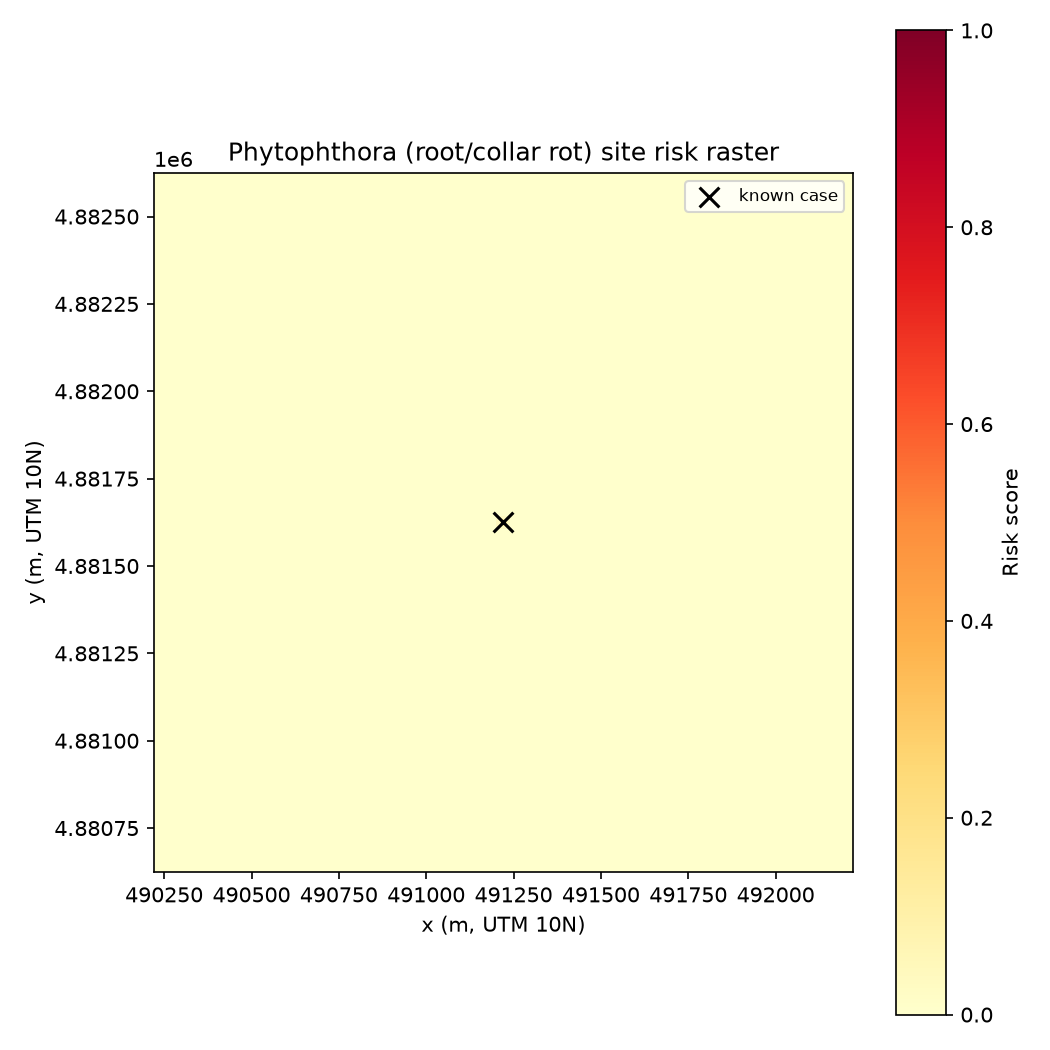
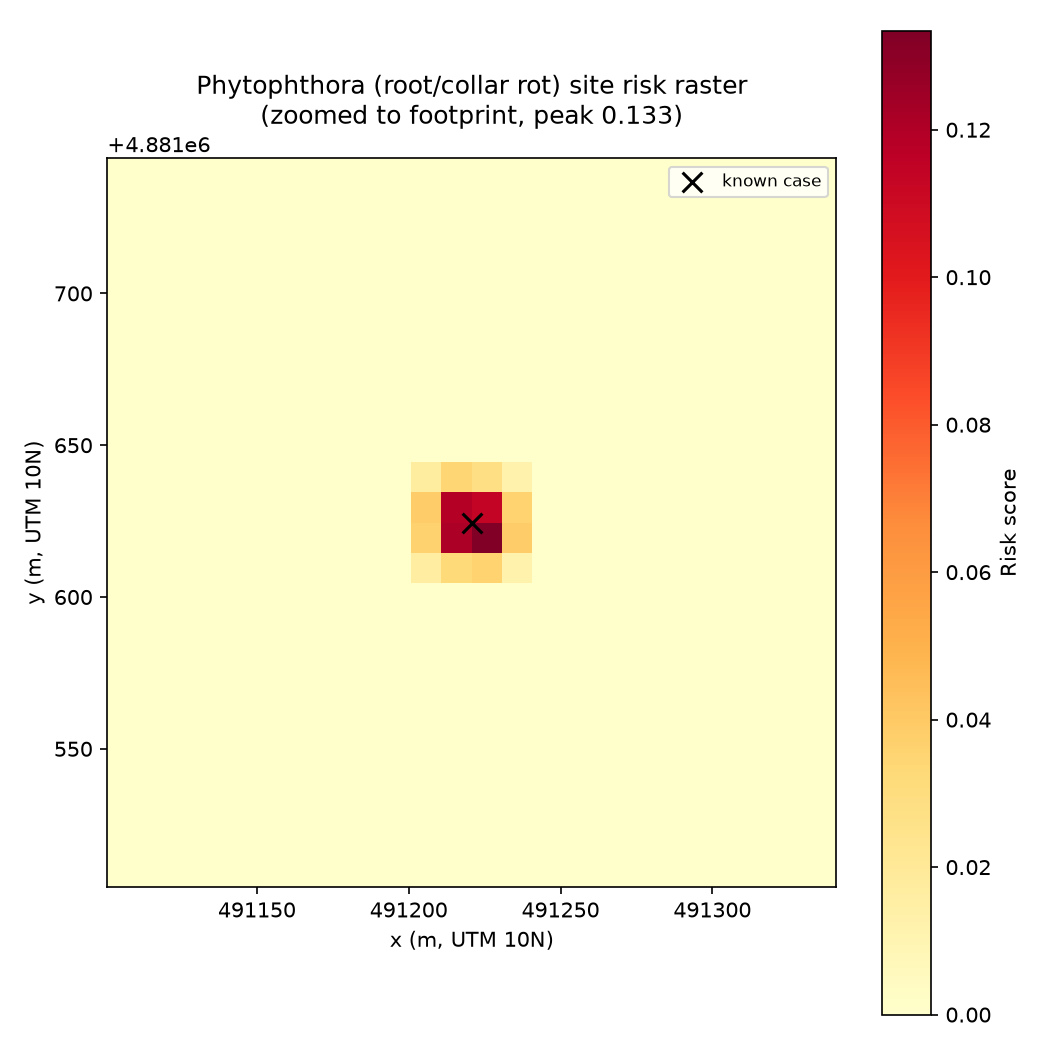
Fix risk raster preview to auto-scale and zoom to footprint
The preview PNG plotted the full 2km AOI with a fixed 0-1 color scale
shared across pathogens, so phytophthora's tight, low-magnitude 25m
dispersal footprint (peak 0.13) rendered as flat/empty even though the
10m-resolution raster has real structure. Crop to the risk footprint
(nonzero cells + source points, padded) and auto-scale color range to
that window instead.

Changed region(s): [[0.0305, 0.0305, 0.8533, 0.9752], [0.8838, 0.0305, 0.9752, 0.9752], [0.3657, 0.4267, 0.5181, 0.579]]

diff --git a/PathogenPy/run_real_site_risk_raster.py b/PathogenPy/run_real_site_risk_raster.py
@@ -59,16 +59,42 @@ def run_one(pathogen_key, site_name, output_basename):
     print(f"[{pathogen_key}] Risk range: {risk.min():.3f} - {risk.max():.3f}, mean {risk.mean():.3f}")
     print(f"[{pathogen_key}] Known/source cases: {len(sources)}")
 
+    # Zoom to the risk footprint and auto-scale the color range to its own
+    # data, rather than a shared 0-1 scale across the full 2km AOI. A fixed
+    # 0-1 scale makes tight, low-magnitude footprints (e.g. phytophthora's
+    # 25m dispersal radius topping out around 0.13) look flat/empty even
+    # though the raster has real structure -- see docs/notes/
+    # real_site_risk_raster.md's resolution-bump verification.
+    resolution_m = environment["resolution_m"]
+    nonzero_rows, nonzero_cols = np.nonzero(risk)
+    source_cols = np.clip(
+        ((sources["x"].to_numpy() - environment["origin_x"]) / resolution_m).astype(int),
+        0, risk.shape[1] - 1,
+    )
+    source_rows = np.clip(
+        ((sources["y"].to_numpy() - environment["origin_y"]) / resolution_m).astype(int),
+        0, risk.shape[0] - 1,
+    )
+    all_rows = np.concatenate([nonzero_rows, source_rows])
+    all_cols = np.concatenate([nonzero_cols, source_cols])
+
+    pad_cells = 10
+    r0 = max(0, all_rows.min() - pad_cells)
+    r1 = min(risk.shape[0], all_rows.max() + pad_cells + 1)
+    c0 = max(0, all_cols.min() - pad_cells)
+    c1 = min(risk.shape[1], all_cols.max() + pad_cells + 1)
+    window = risk[r0:r1, c0:c1]
+
     extent = [
-        environment["origin_x"],
-        environment["origin_x"] + risk.shape[1] * environment["resolution_m"],
-        environment["origin_y"],
-        environment["origin_y"] + risk.shape[0] * environment["resolution_m"],
+        environment["origin_x"] + c0 * resolution_m,
+        environment["origin_x"] + c1 * resolution_m,
+        environment["origin_y"] + r0 * resolution_m,
+        environment["origin_y"] + r1 * resolution_m,
     ]
     fig, ax = plt.subplots(figsize=(7, 7))
-    im = ax.imshow(risk, cmap="YlOrRd", vmin=0, vmax=1, origin="lower", extent=extent)
+    im = ax.imshow(window, cmap="YlOrRd", origin="lower", extent=extent)
     ax.scatter(sources["x"], sources["y"], c="black", marker="x", s=90, label="known case")
-    ax.set_title(f"{config['display_name']} site risk raster")
+    ax.set_title(f"{config['display_name']} site risk raster\n(zoomed to footprint, peak {risk.max():.3f})")
     ax.set_xlabel("x (m, UTM 10N)")
     ax.set_ylabel("y (m, UTM 10N)")
     ax.legend(loc="upper right", fontsize=8)

diff --git a/docs/notes/real_site_risk_raster.md b/docs/notes/real_site_risk_raster.md
@@ -186,3 +186,28 @@ reprojection, same as before) still triggers as expected and is logged.
   took no changes for this -- resolution was already a `grid_meta.json`
   parameter, not hardcoded, so this was purely a data re-export plus
   re-run, not an engine change.
+
+### Preview scaling fix (2026-08-14)
+The resolution bump's finer-grained structure was real but invisible in
+`run_real_site_risk_raster.py`'s preview PNG: it plotted the full 2km AOI
+with a fixed 0-1 color scale shared across pathogens, so phytophthora's
+~40m-wide, 0.13-peak footprint rendered as a flat pale rectangle --
+indistinguishable from "nothing here." Confirmed via a throwaway diagnostic
+script that the raster itself had real, asymmetric structure (16 distinct
+nonzero cells, peak cell offset from the known case's literal point location
+due to soil/terrain modulation) that the shipped preview simply couldn't
+show at that scale.
+
+Fixed `run_one()`'s plotting to crop to the risk footprint (bounding box of
+nonzero cells + source points, padded 10 cells) and auto-scale the color
+range to that window's own data instead of a fixed 0-1 scale, with the
+actual peak value in the title. Re-ran both pathogens:
+- `phytophthora`: now shows a clean, tight radial gradient centered near
+  the known case.
+- `red_ring_rot`: now shows a visibly irregular, non-radially-symmetric
+  blob -- land cover/terrain modulation is clearly shaping the footprint,
+  not just distance decay.
+
+This is a visualization-only fix (`spread_engine.py` and the underlying
+risk arrays are unchanged) -- no modeling-behavior verification needed
+beyond confirming the two preview PNGs regenerated correctly.
